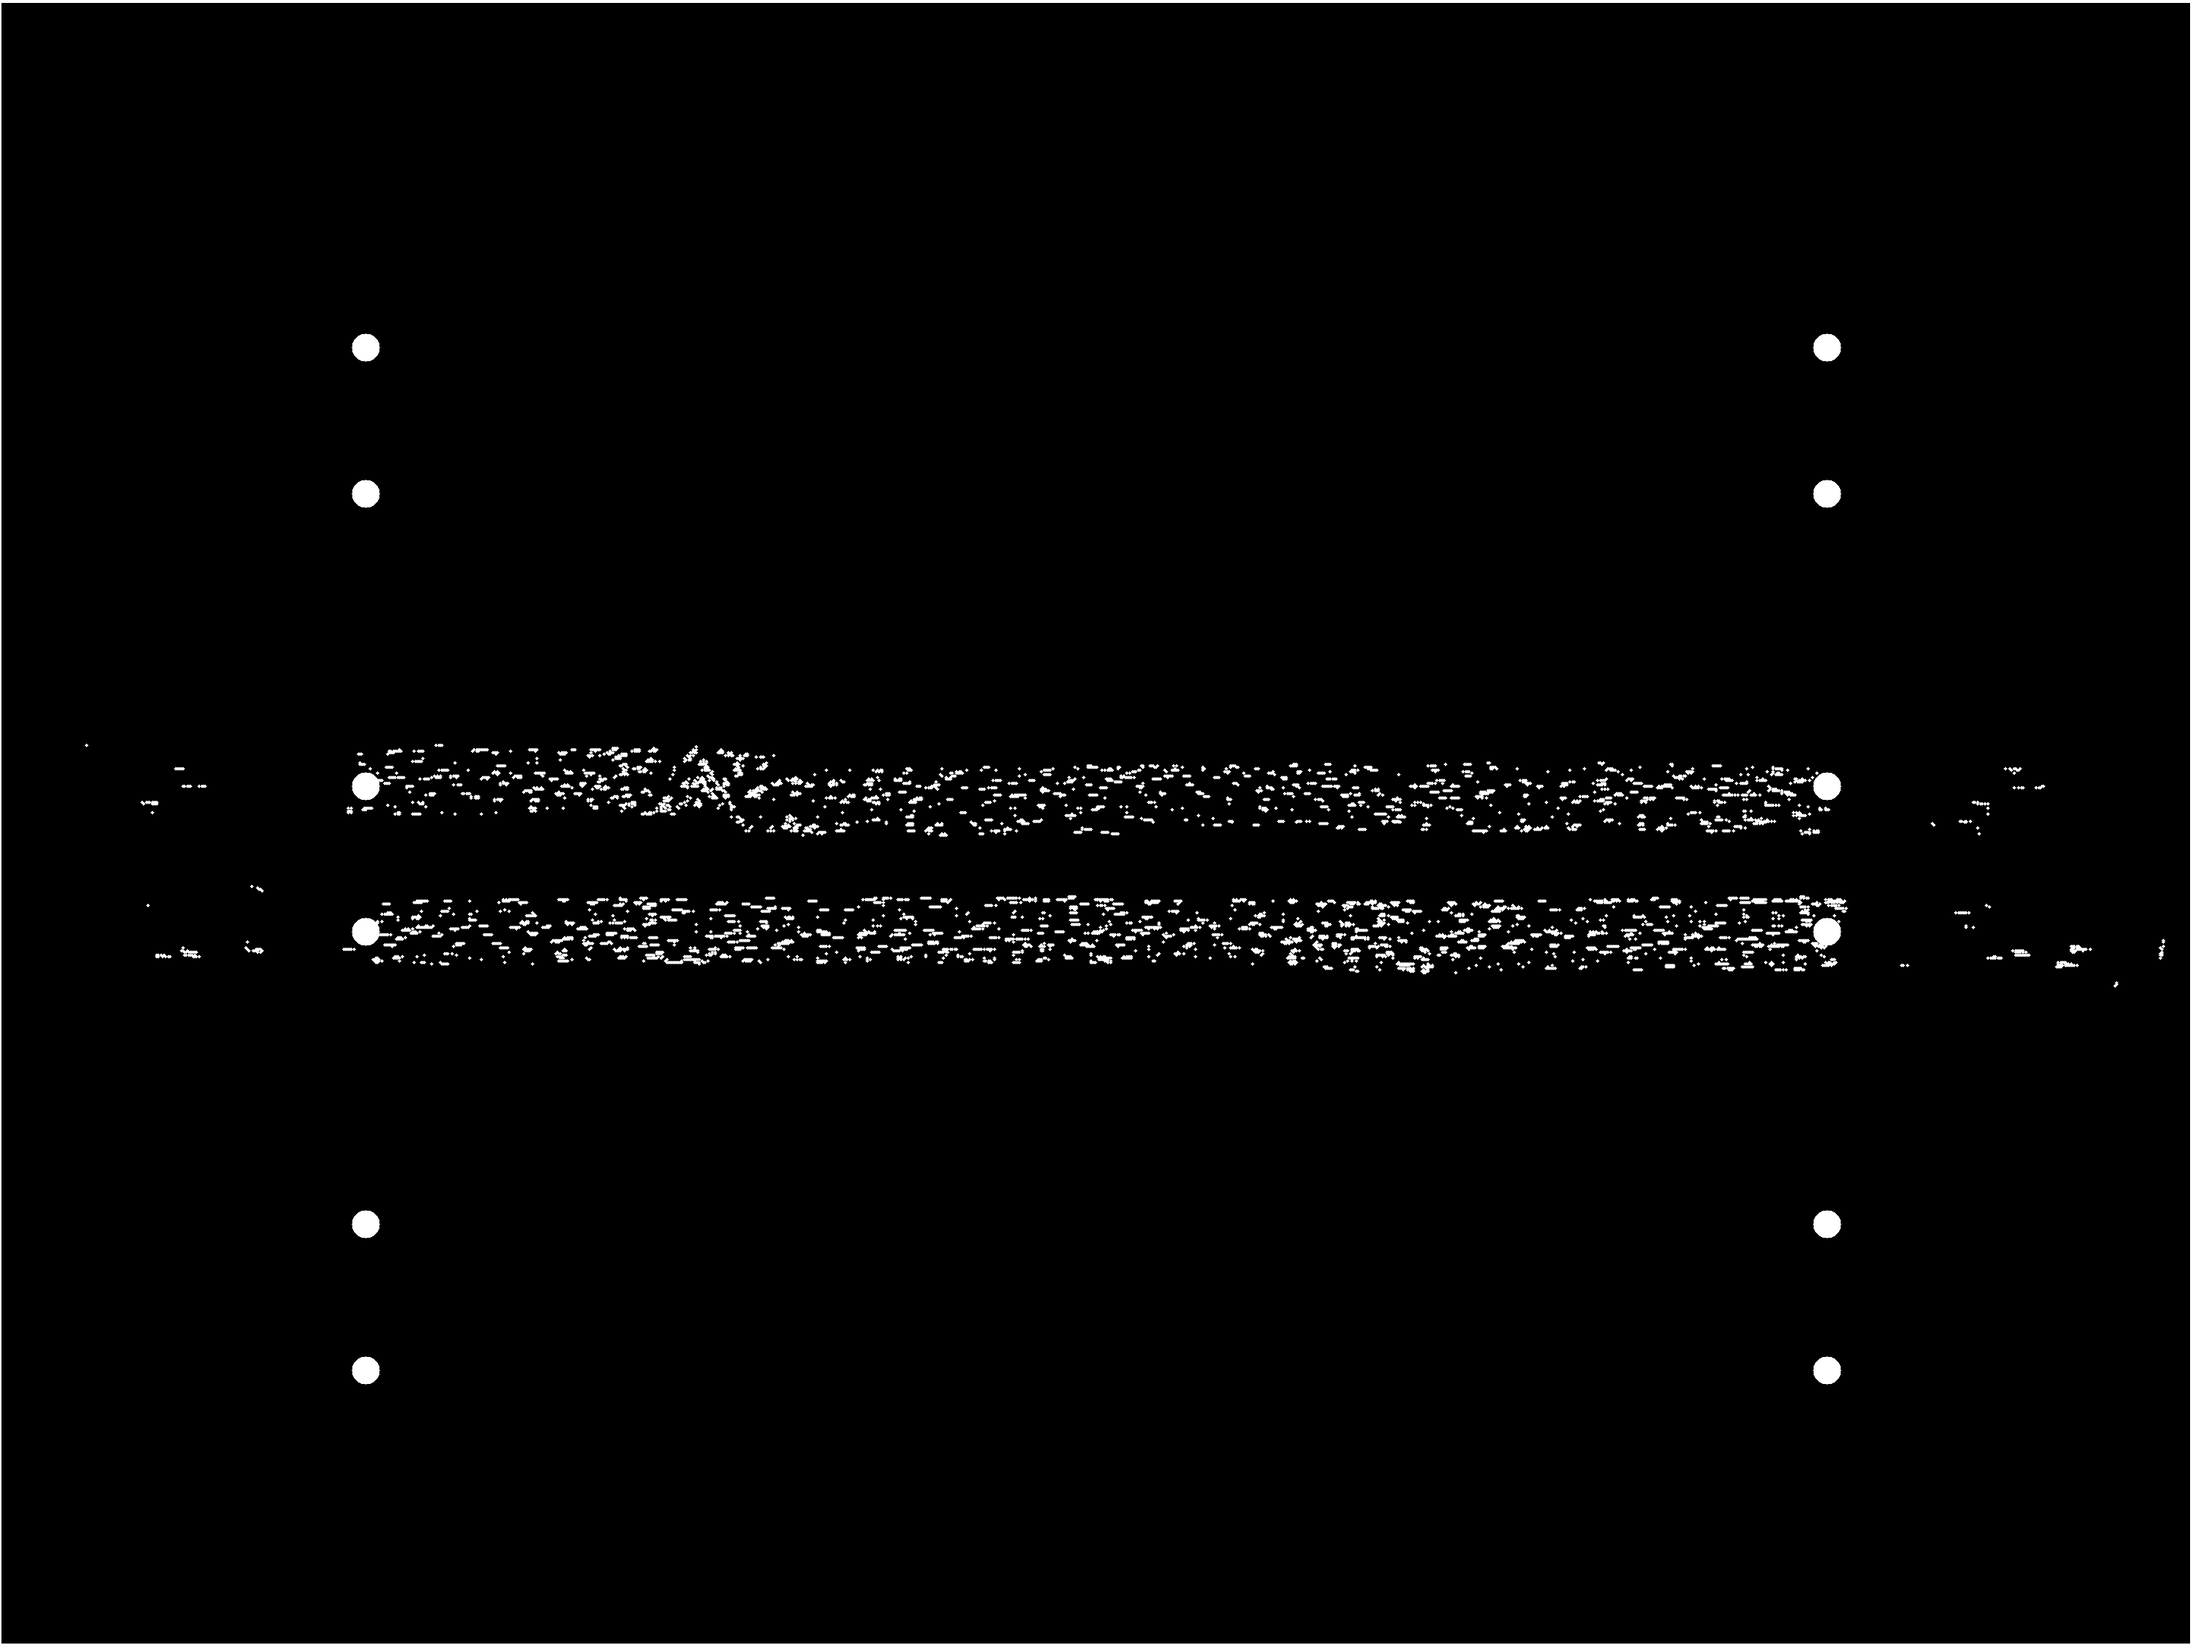
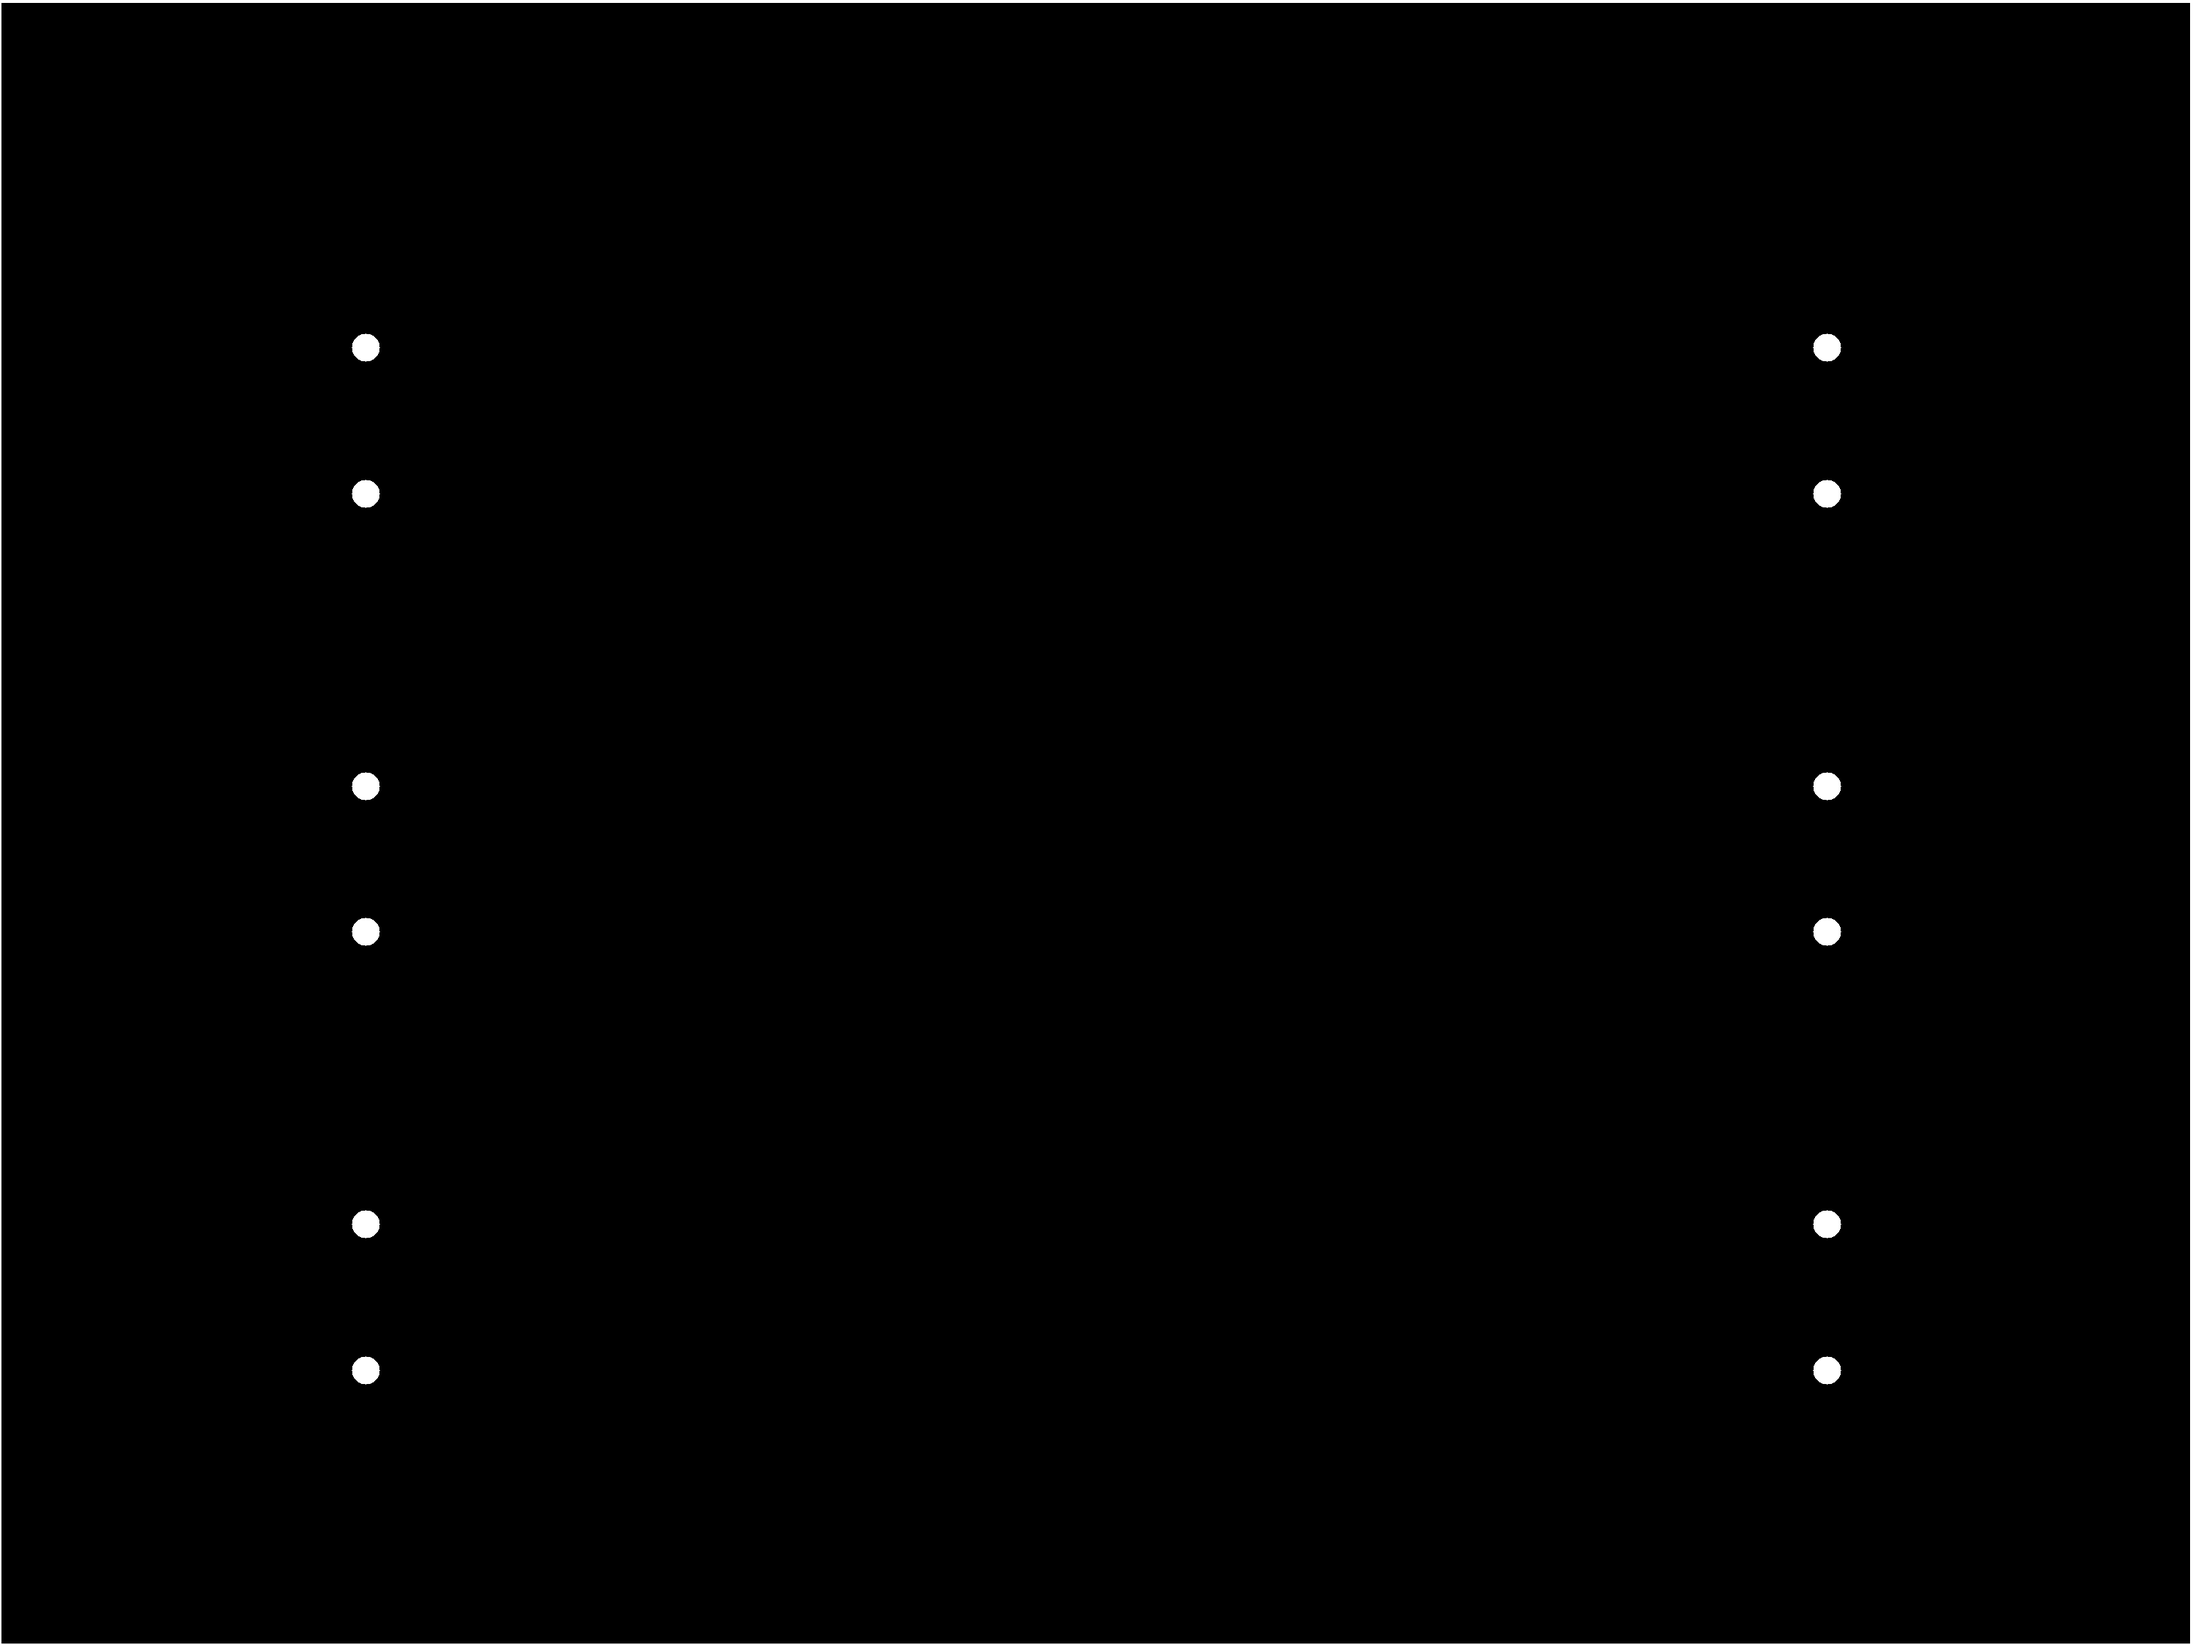
Automatic Commit

diff --git a/WORKSPACE/catkin_ws/src/assessment_package/scripts/image_processing/weed_detection.py b/WORKSPACE/catkin_ws/src/assessment_package/scripts/image_processing/weed_detection.py
@@ -1,7 +1,7 @@
 import cv2
 import numpy as np
 import matplotlib.pyplot as plt
-from generic import imreconstruct, imfill, imbinarize, imdilate, imerode, imclose, imopen, bgr2hsv, imrotate, strel, T, summ, imclearborder 
+from generic import imreconstruct, imfill, imbinarize, imbinarizerange, imdilate, imerode, imclose, imopen, bgr2hsv, imrotate, strel, T, summ, imclearborder 
 from sys import argv
 import os
 
@@ -51,9 +51,11 @@ def cabbage(IMG_RAW):
 
 	
 	# Dirt Mask
-	#im_dirt_1 = [1-im_h]*im_h; #reference using im_dirt_1[0,:,:]
-	im_dirt_2 = imbinarize(im_h, .2)
-	dirtMask1 = imfill(im_dirt_2, .5);
+	im_dirt_1 = (1-im_h)*im_h; #reference using im_dirt_1[0,:,:]
+	im_dirt_1 = np.array(im_dirt_1*255,dtype='uint8')*255
+	im_dirt_1 = imbinarizerange(im_dirt_1, 150,215)
+	#im_dirt_1 = imbinarize(im_h, .2)
+	dirtMask1 = imfill(im_dirt_1, .5)
 	#dirtMask2 = imerode(dirtMask1,strel('disk', 7))
 	dirtMask = np.array(dirtMask1==0, dtype='uint8')
 	
@@ -64,8 +66,9 @@ def cabbage(IMG_RAW):
 	im_weed_1 = imdilate(plantMask, strel('disk',25)) + dirtMask
 	weedMask1 = imbinarize(im_weed_1,0)
 	weedMask2 = imopen(weedMask1,strel('disk',2))
-	weedMask2 = imerode(weedMask2,strel('disk',10))
-	weedMask = np.array(imclearborder(weedMask2==0), dtype='uint8')
+	weedMask2 = imerode(weedMask2,strel('disk',10))==0
+	weedMask3 = np.array(imclearborder(weedMask2), dtype='uint8')
+	weedMask = np.array(imclearborder(weedMask2), dtype='uint8')
 	
 	# Overlay
 	Overlay = IMG_RAW.copy()
@@ -78,7 +81,7 @@ def cabbage(IMG_RAW):
 	#cv2.imwrite('out/weedMask.png', weedMask*255)
 	#cv2.imwrite('out/dirtMask.png', dirtMask*255)
 	
-	return (Overlay, weedMask, plantMask, dirtMask)
+	return (Overlay, weedMask, plantMask, dirtMask, np.array(weedMask3, dtype='uint8')*123)
 
 
 def onion(IMG_RAW,n):

diff --git a/WORKSPACE/catkin_ws/src/assessment_package/scripts/weed_detector.py b/WORKSPACE/catkin_ws/src/assessment_package/scripts/weed_detector.py
@@ -115,9 +115,11 @@ class detector:
 		#Detect the weeds
 		if self.plant_type == "basil":
 			OVERLAY,WEED,_,_ = basil(cv2.resize(IMG_RAW, (160,90)))
+			
 			rad = 0.025;
 		elif self.plant_type == "cabbage":
-			OVERLAY,WEED,_,_ = cabbage(cv2.resize(IMG_RAW, (480, 270)))
+			OVERLAY,WEED,_,_,crap = cabbage(cv2.resize(IMG_RAW, (480, 270)))
+			self.pub_weed.publish(self.bridge.cv2_to_imgmsg(crap, "mono8"))
 			rad = 0.015;
 		elif self.plant_type == "onion":
 			OVERLAY,WEED,_,_ = onion(cv2.resize(IMG_RAW, (240, 135)),0)
@@ -137,7 +139,7 @@ class detector:
 				P.y=np.around(p[1], 2)
 				self.P_List.append( (str(P.x),str(P.y),str(rad)) )
 
-			self.pub_weed.publish(self.bridge.cv2_to_imgmsg(WEED*255, "mono8"))
+			#self.pub_weed.publish(self.bridge.cv2_to_imgmsg(WEED*255, "mono8"))
 			self.pub_overlay.publish(self.bridge.cv2_to_imgmsg(OVERLAY,"bgr8"))
 
 	#Adapted from https://www.learnopencv.com/find-center-of-blob-centroid-using-opencv-cpp-python/

diff --git a/WORKSPACE/catkin_ws/src/assessment_package/scripts/image_processing/generic.py b/WORKSPACE/catkin_ws/src/assessment_package/scripts/image_processing/generic.py
@@ -45,6 +45,12 @@ def imbinarize(im_in, threshold, maxvalue=1):
 		_,bina = cv2.threshold(im_in.astype(np.uint8),threshold,maxvalue,cv2.THRESH_BINARY)
 	return bina
 
+#add condition for variable type
+def imbinarizerange(im_in, minthreshold, maxthreshold):
+	bina1 = np.array(im_in>minthreshold,dtype='uint8')
+	bina2 = np.array(im_in<maxthreshold,dtype='uint8')
+	return bina1*bina2
+
 def imdilate(I, kernel):
 	return cv2.dilate(I.astype(np.uint8),  kernel, iterations=1)
 
